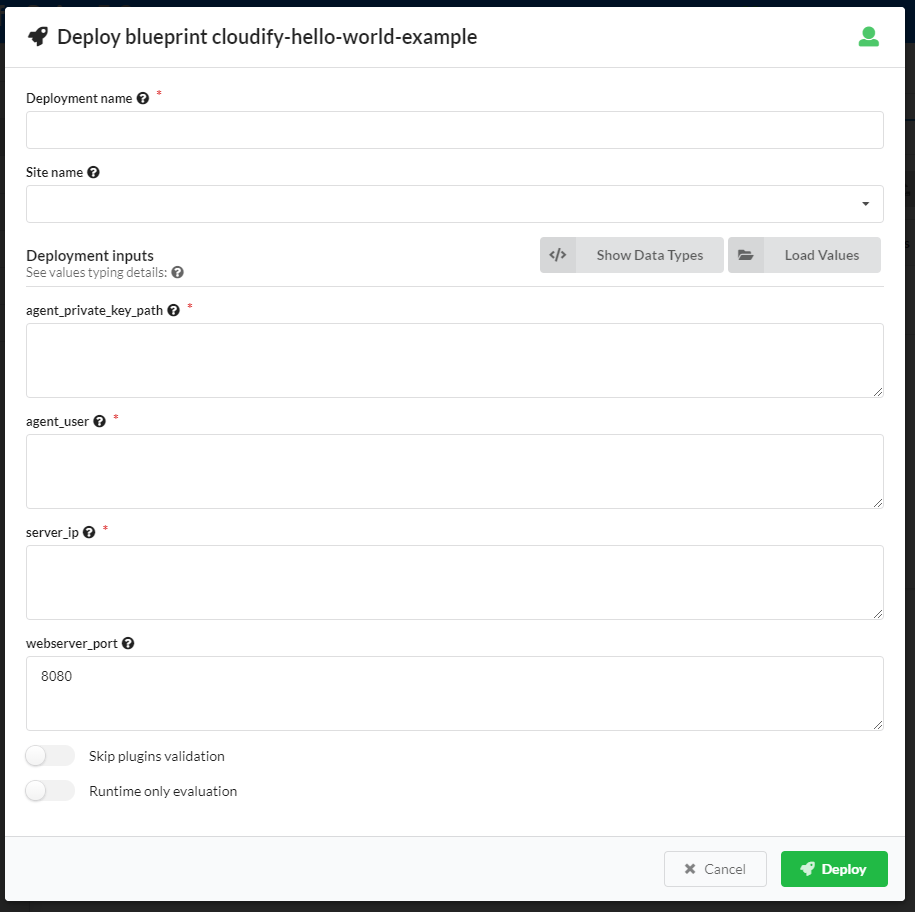
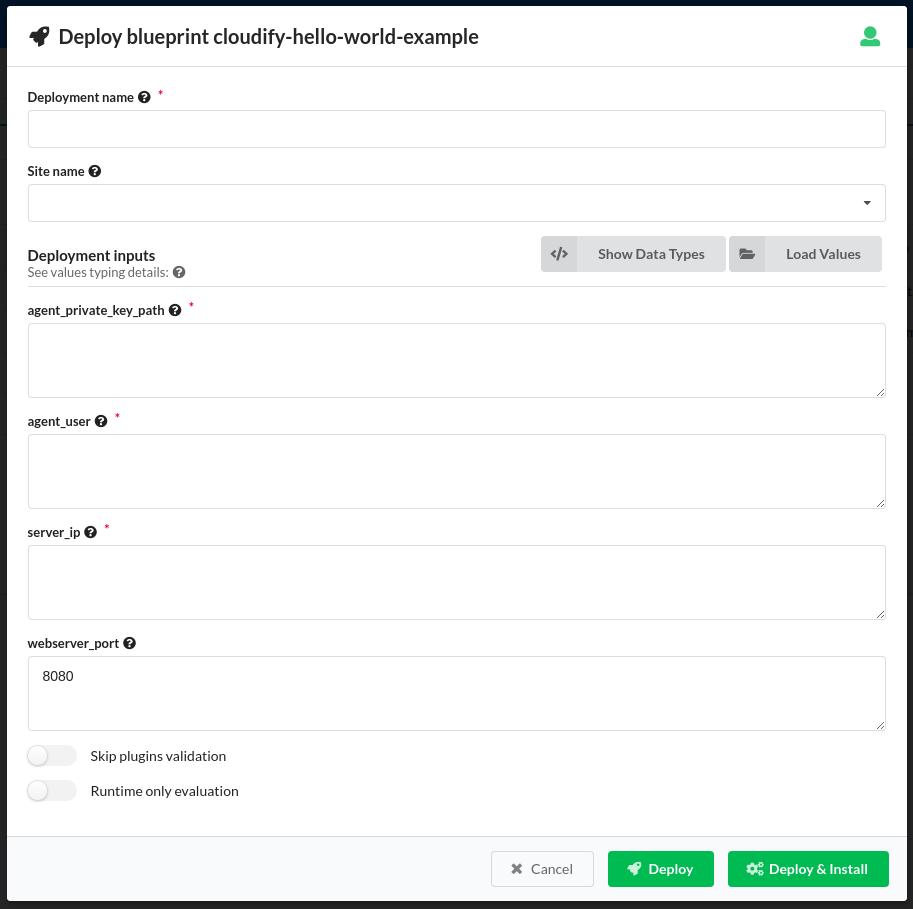
Add information about "CY-2508: One click deploy&install option in the UI"

diff --git a/content/working_with/console/local-blueprints-page.md b/content/working_with/console/local-blueprints-page.md
@@ -41,7 +41,7 @@ You can also upload blueprints from the Blueprints Catalog page, by clicking on 
    The names of the default input values appear in the inputs fields. You can leave these defaults or override them with new values. 
    Input's description (on hovering help icon ![Help icon]( /images/ui/icons/help-icon.png )) might help you understand how to fill-in the proper value. 
    Another alternative for providing the inputs is by specifying a .yaml file containing the relevant values. 
-4. Click **Deploy** to deploy the blueprint.<br>
+4. Click **Deploy** to just create deployment or **Deploy & Install** to create deployment and install it.
 
 ![Create a deployment]( /images/ui/blueprintsPage/deployment_creation.png )
 
@@ -81,12 +81,12 @@ The number of node instances is marked in a bullet beside the node's type icon.
 
 ### Deployments
 
-The Deployments widget displays a list of the deployment in the current tenant. The dispayed information is: Deployment name, 
+The Deployments widget displays a list of the deployment in the current tenant. The displayed information is: Deployment name, 
 the blueprint which the deployment is derived from, the deployments creation and last update dates, 
 the name of the user who created the deployment, and the number of nodes per state 
 (see [Deployments page]({{< relref "working_with/console/deployments-page.md" >}}) to learn more about nodes states).
 
-Clicking on a deployement's name will bring us to this deployment's drill-down page, 
+Clicking on a deployment's name will bring us to this deployment's drill-down page, 
 which provides additional data (see [deployments page]({{< relref "working_with/console/deployments-page.md" >}})
 for more information) and displays buttons that enable you to update or delete the deployment, and to execute a workflow.
 

diff --git a/content/working_with/manager/create-deployment.md b/content/working_with/manager/create-deployment.md
@@ -32,7 +32,10 @@ cfy deployments create -b <BLUEPRINT_NAME> <DEPLOYMENT_NAME> --inputs </path/to/
    * Specify the input parameters
    * Enter the location of a file that contains the input parameters
 
-3. Click **Deploy**.   
+3. Click one of the options:
+
+   * **Deploy** to just create deployment 
+   * **Deploy & Install** to create and install deployment
 
 After creating the deployment, you can open the Deployment widget to track the initialization stage.<br/>
 ![Deployment initialize]( /images/manager/ui-initialize-deployment.png )<br>

diff --git a/content/working_with/console/deployments-page.md b/content/working_with/console/deployments-page.md
@@ -32,7 +32,7 @@ Check [Blueprint Deployments widget page]({{< relref "working_with/console/widge
 3. Optional, specify a site to which this deployment will be assigned.
 4. Select a blueprint from the dropdown list.
 5. Specify the deployment inputs for the blueprint or use the defaults.
-6. Click **Deploy**.
+6. Click **Deploy** to just create deployment or **Deploy & Install** to create deployment and install it.
 
 The deployment is added to the list.
 
